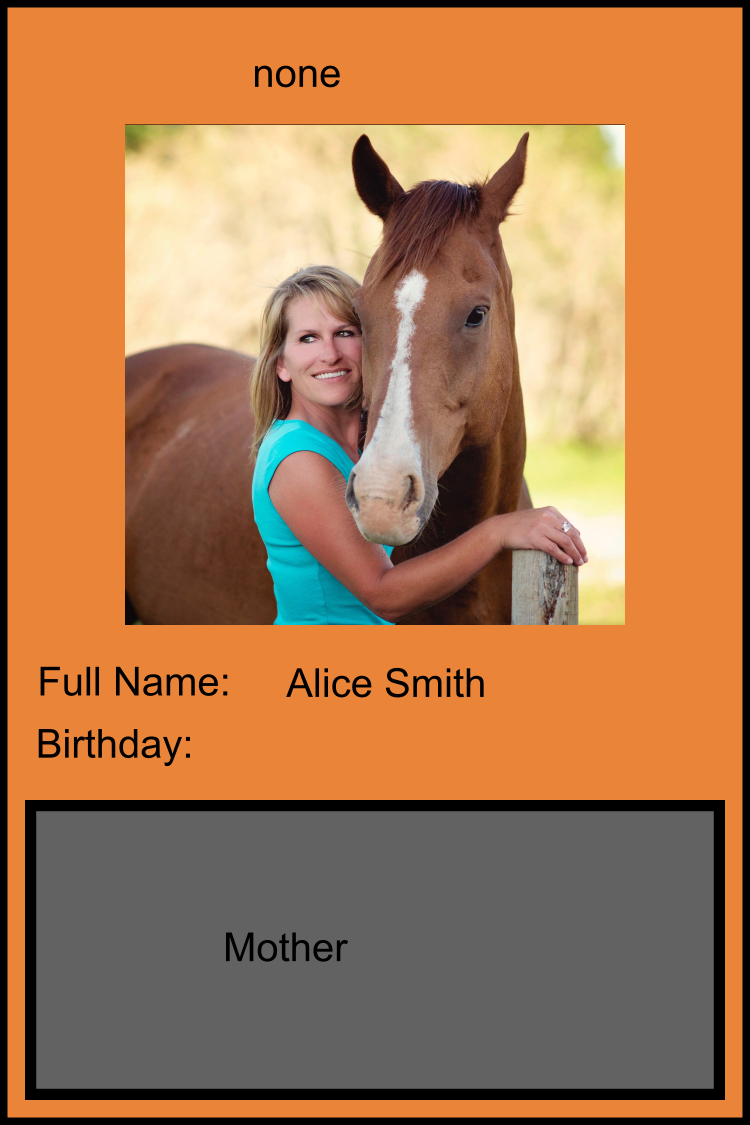
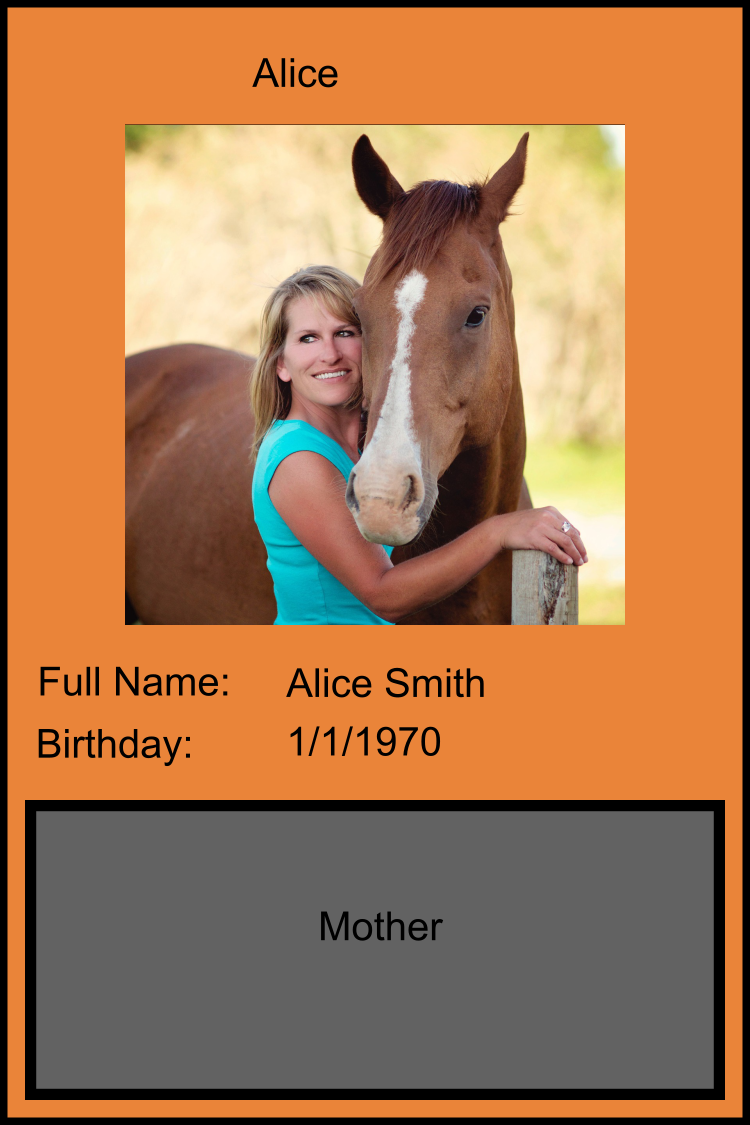
replace both imgs. allow multi-line descriptions.

Changed region(s): [[0.3067, 0.8089, 0.5827, 0.8711], [0.3987, 0.6222, 0.5827, 0.6844], [0.3373, 0.0311, 0.46, 0.0933]]

diff --git a/js/converter.js b/js/converter.js
@@ -85,14 +85,27 @@ function rowToSvg(rowStr) {
 		return;
 	}
 
-	var cleanedName = rowArr[0].replace(' ', '_')
+	var cleanedName = rowArr[0];
+	var cleanedName = cleanedName.replace(' ', '_');
+	var cleanedName = cleanedName.replace(' ', '_'); // TODO: replaceAll
 	var svgFileName = cleanedName + ".svg";
 
 	var rowData = templateData;
-	rowData = rowData.replace('$FULL_NAME$', rowArr[0]);
-	rowData = rowData.replace('$NICKNAME$', rowArr[1]);
-	rowData = rowData.replace('$RELATIONSHIP$', rowArr[2]);
-	rowData = rowData.replace('default_person.png', rowArr[4]);
+
+	var fullName = rowArr[0];
+	var nickName = rowArr[1];
+	if (nickName == "none") {
+		nickName = fullName;
+	}
+
+	rowData = rowData.replace('$FULL_NAME$', fullName);
+	rowData = rowData.replace('$NICKNAME$', nickName);
+	rowData = rowData.replace('$DESC_1$', "");
+	rowData = rowData.replace('$DESC_2$', rowArr[2]);
+	rowData = rowData.replace('$DESC_3$', "");
+	rowData = rowData.replace('$DESC_4$', "");
+	rowData = rowData.replace('$BIRTHDAY$', rowArr[3]);
+	rowData = rowData.replace('default_person.png', rowArr[4]); // TODO: replaceAll
 	rowData = rowData.replace('default_person.png', rowArr[4]);
 
 	var svgPath = svgOut + svgFileName;
